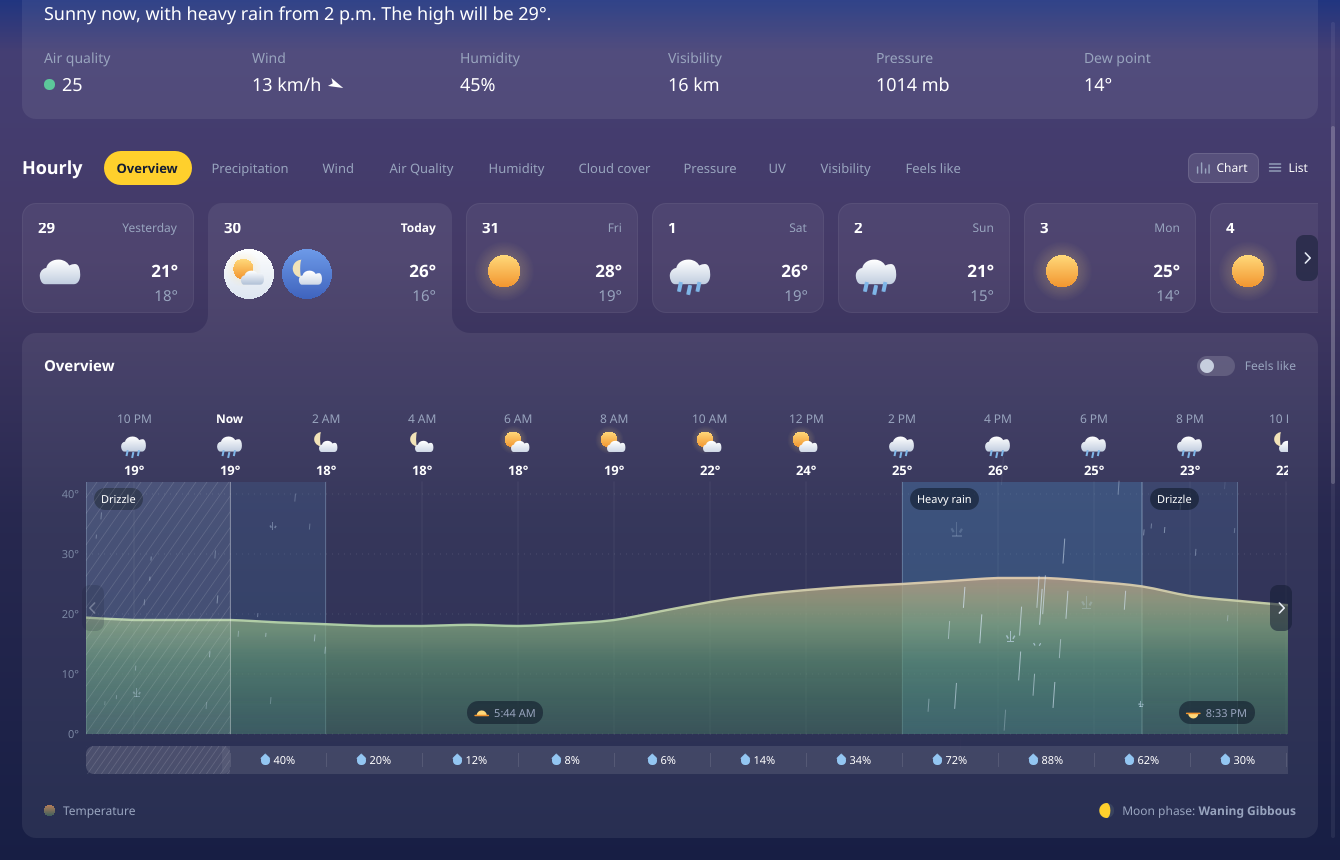
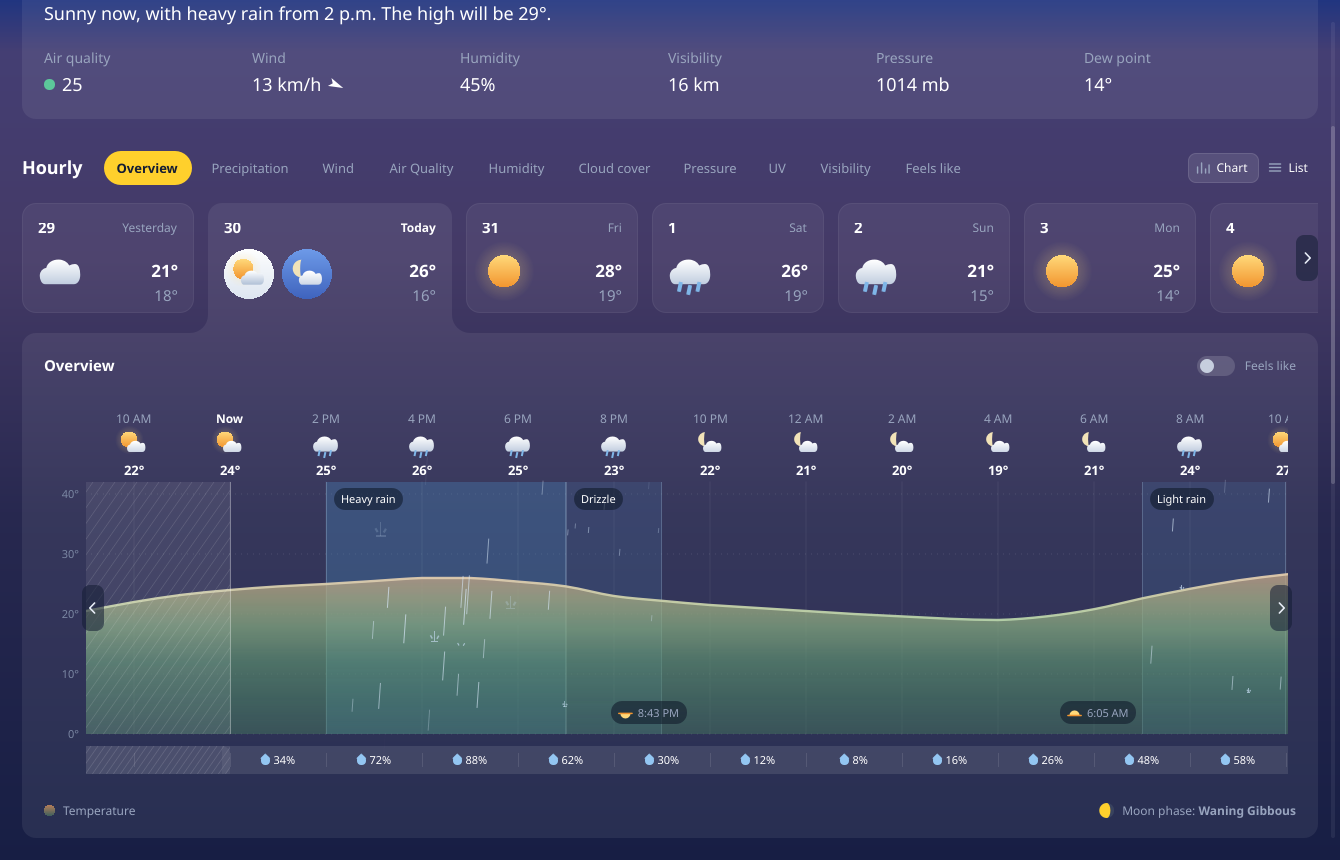
docs(prototype): regenerate the screenshots from the reconciled data
All nine were taken against a mock that put "Now" at midnight, so the five
desktop ones show a chart of moon glyphs under a hero drawing a sun and the
four mobile ones show the same contradiction on a phone. The hourly strip now
opens on 12 PM: a partly-sunny glyph at Now, rain from 2 p.m. where the hero's
outlook sentence says it is, and moons only across the small hours where they
belong.

Three of the mobile ones and the gallery one were also stale by definition
rather than by degree — they could not have been produced by --grab at all
until 67196b7, since page.animated = false threw on the mobile shell and under
--gallery and took grabTimer.start() with it. They date from before the
gallery's last two entries, which is visible in the rail: it counted 58.

The commands are now written down beside the images, because they were not
anywhere and had to be recovered by matching window sizes and scroll offsets
against the committed PNGs. Each was verified by reproducing the old image
byte-for-byte before anything changed. Every one of the nine was then run
twice and cmp'd: byte-identical, which is the property the golden-image tests
in W2 will rest on.

diff --git a/prototype/hourly-overview/README.md b/prototype/hourly-overview/README.md
@@ -83,6 +83,34 @@ match, and `--size 400x800` gets you the phone layout just as well.
 in, so a headless grab without it reviews the top third and silently signs off on
 everything below — which is where the twelve charts are.
 
+### The images above
+
+Every screenshot in this file is a `--grab`, and this is the command that made
+it. They are checked in, so they go stale the moment the data or the layout
+moves — regenerate the whole set rather than the one you changed, or the page
+ends up illustrated by two different builds:
+
+```sh
+./run.sh --grab screenshot.png                 --size 1340x860
+./run.sh --grab screenshot-rain.png            --size 1340x860 --scroll 250
+./run.sh --grab screenshot-uv.png              --size 1340x860 --scroll 250 --metric uv
+./run.sh --grab screenshot-list.png            --size 1340x860 --scroll 250 --list
+./run.sh --grab screenshot-details.png         --size 1340x860 --scroll 900
+./run.sh --grab screenshot-mobile.png          --viewport mobile --size 390x1180
+./run.sh --grab screenshot-mobile-tabs.png     --viewport mobile --tab hourly
+./run.sh --grab screenshot-mobile-night.png    --viewport mobile --size 390x900 --sky night
+./run.sh --grab screenshot-gallery-viewport.png --gallery Today screen --viewport mobile
+```
+
+The two mobile sizes are taller than the 390x844 preset on purpose: a phone
+screen's worth of a scrolling page is not what a reader of a README wants to be
+shown. `--sky night` forces the backdrop and not the data, which is the only way
+to photograph the star field — the mock cannot be a different time of day.
+
+Run any of them twice and `cmp` the results. They are byte-identical, and if one
+is not, something in the prototype has started reading a clock or a random
+number generator and the golden images are worth nothing.
+
 ### Looking at motion
 
 A still frame cannot show motion, and `--grab` lands wherever the animation
